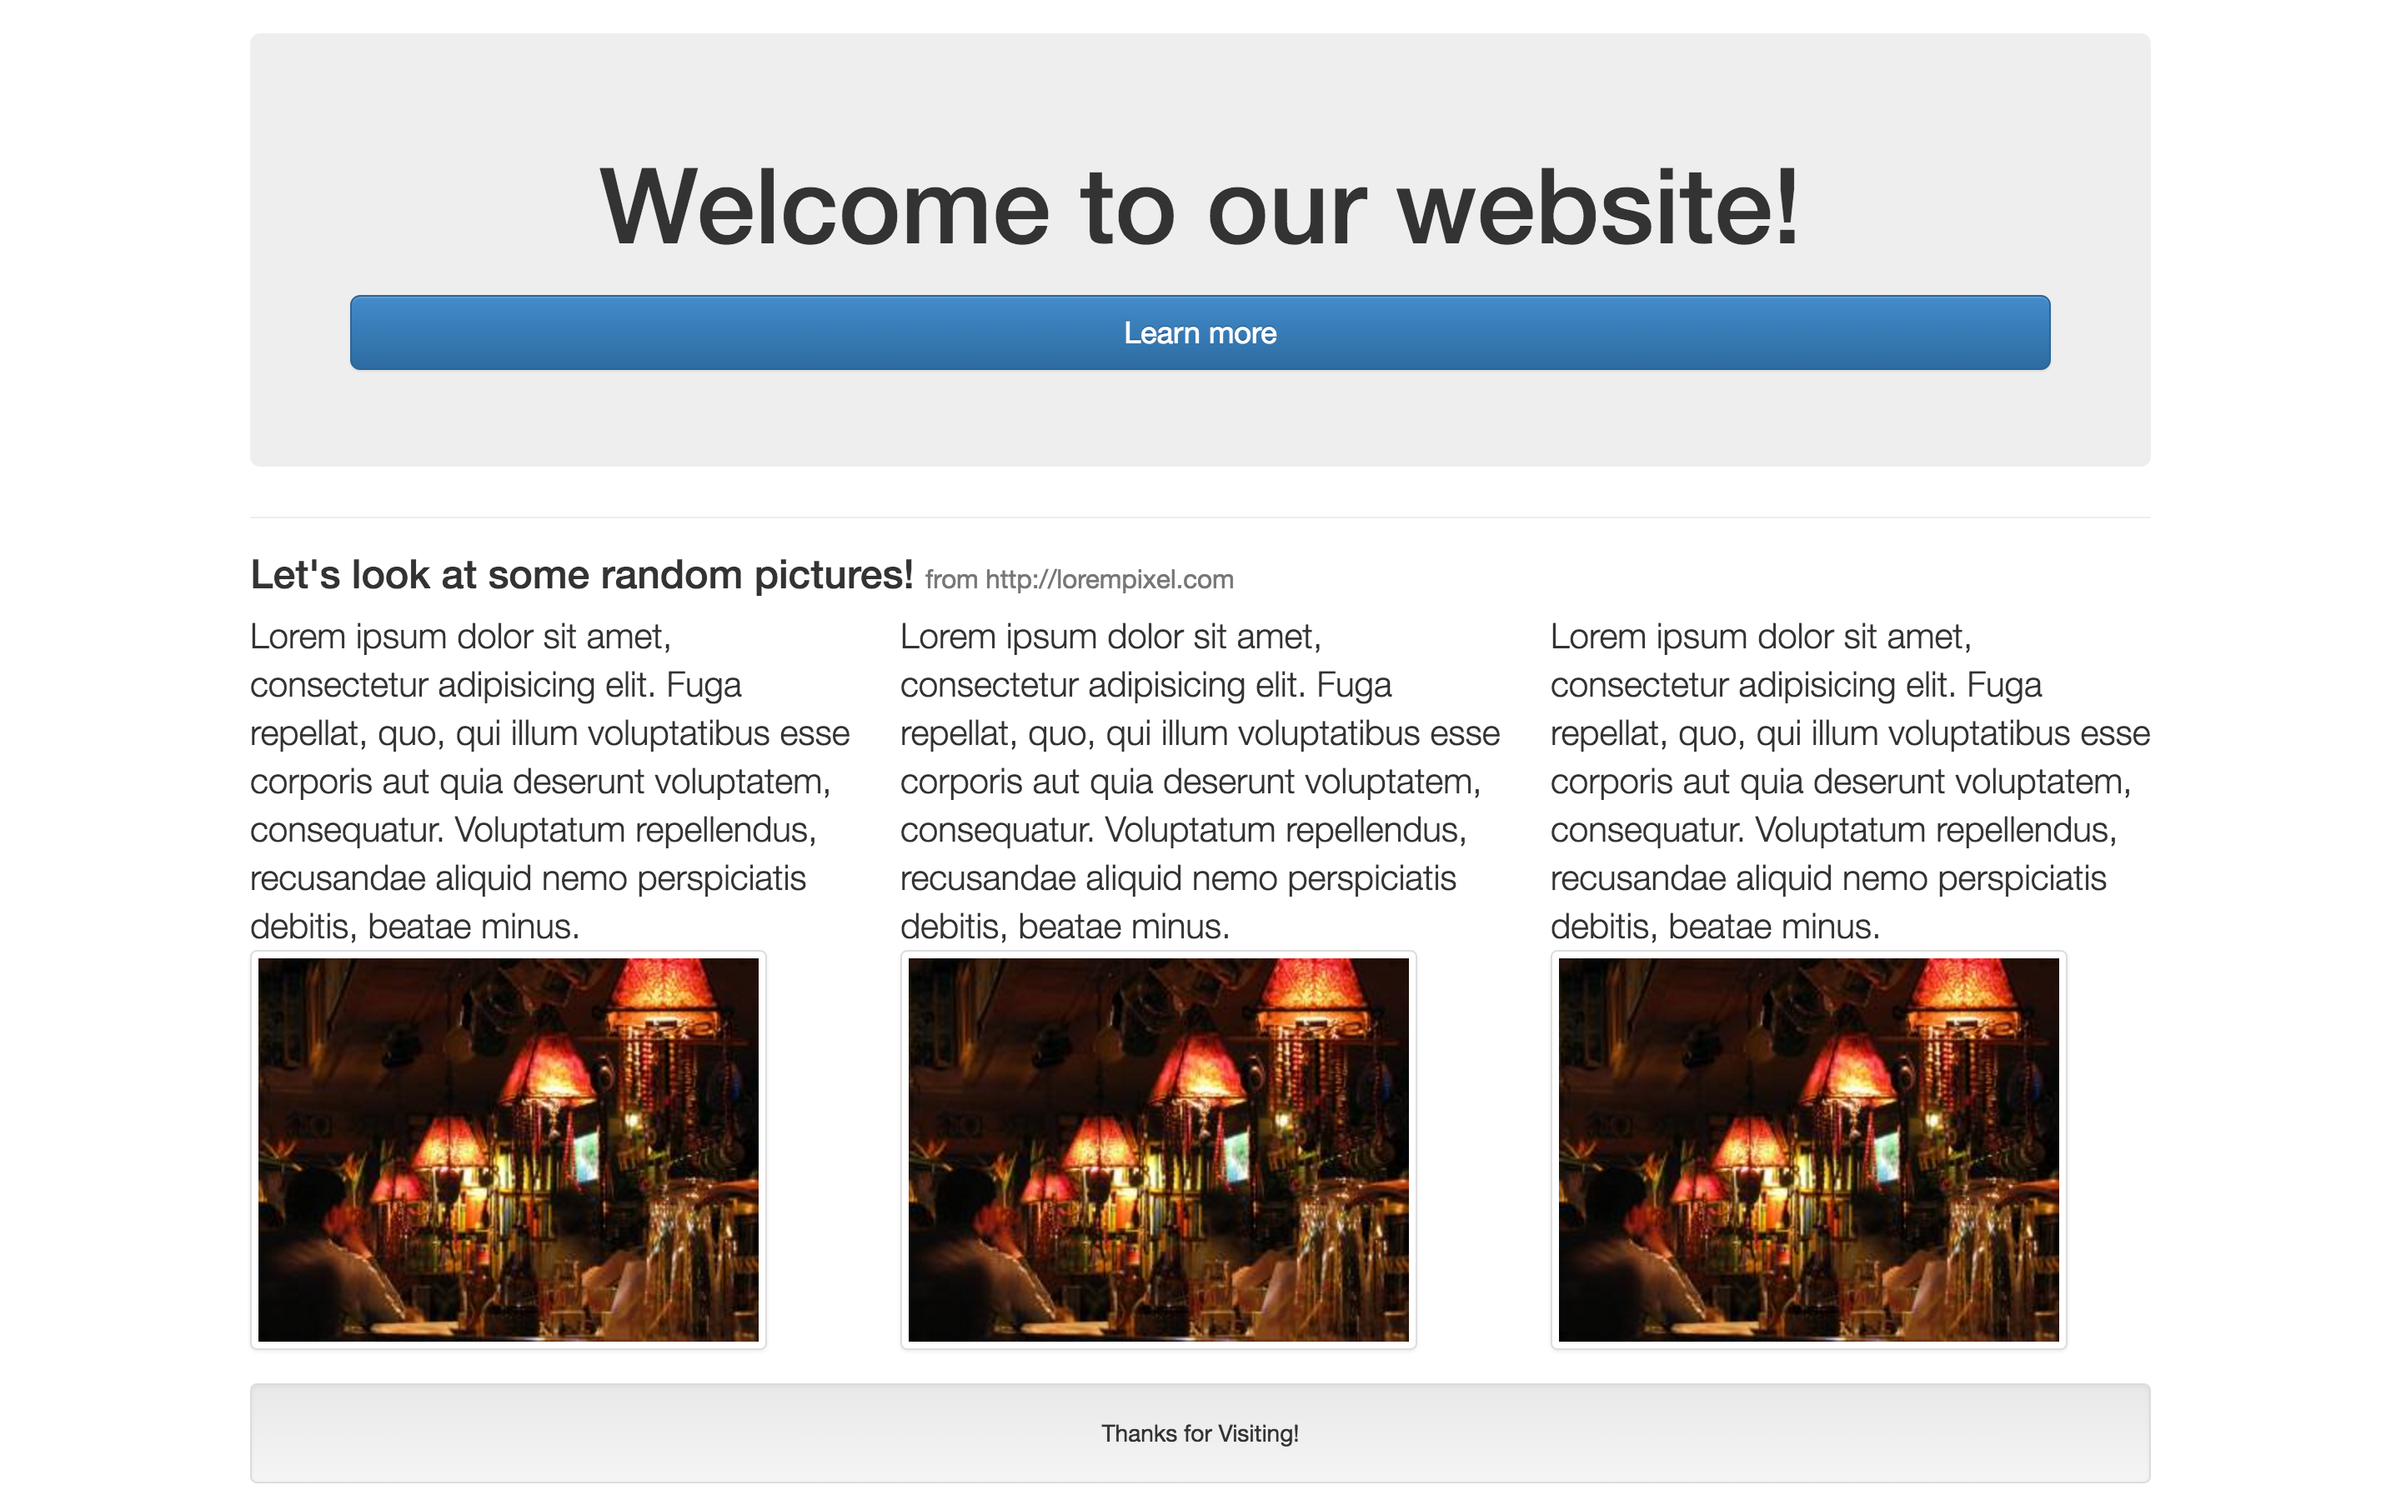
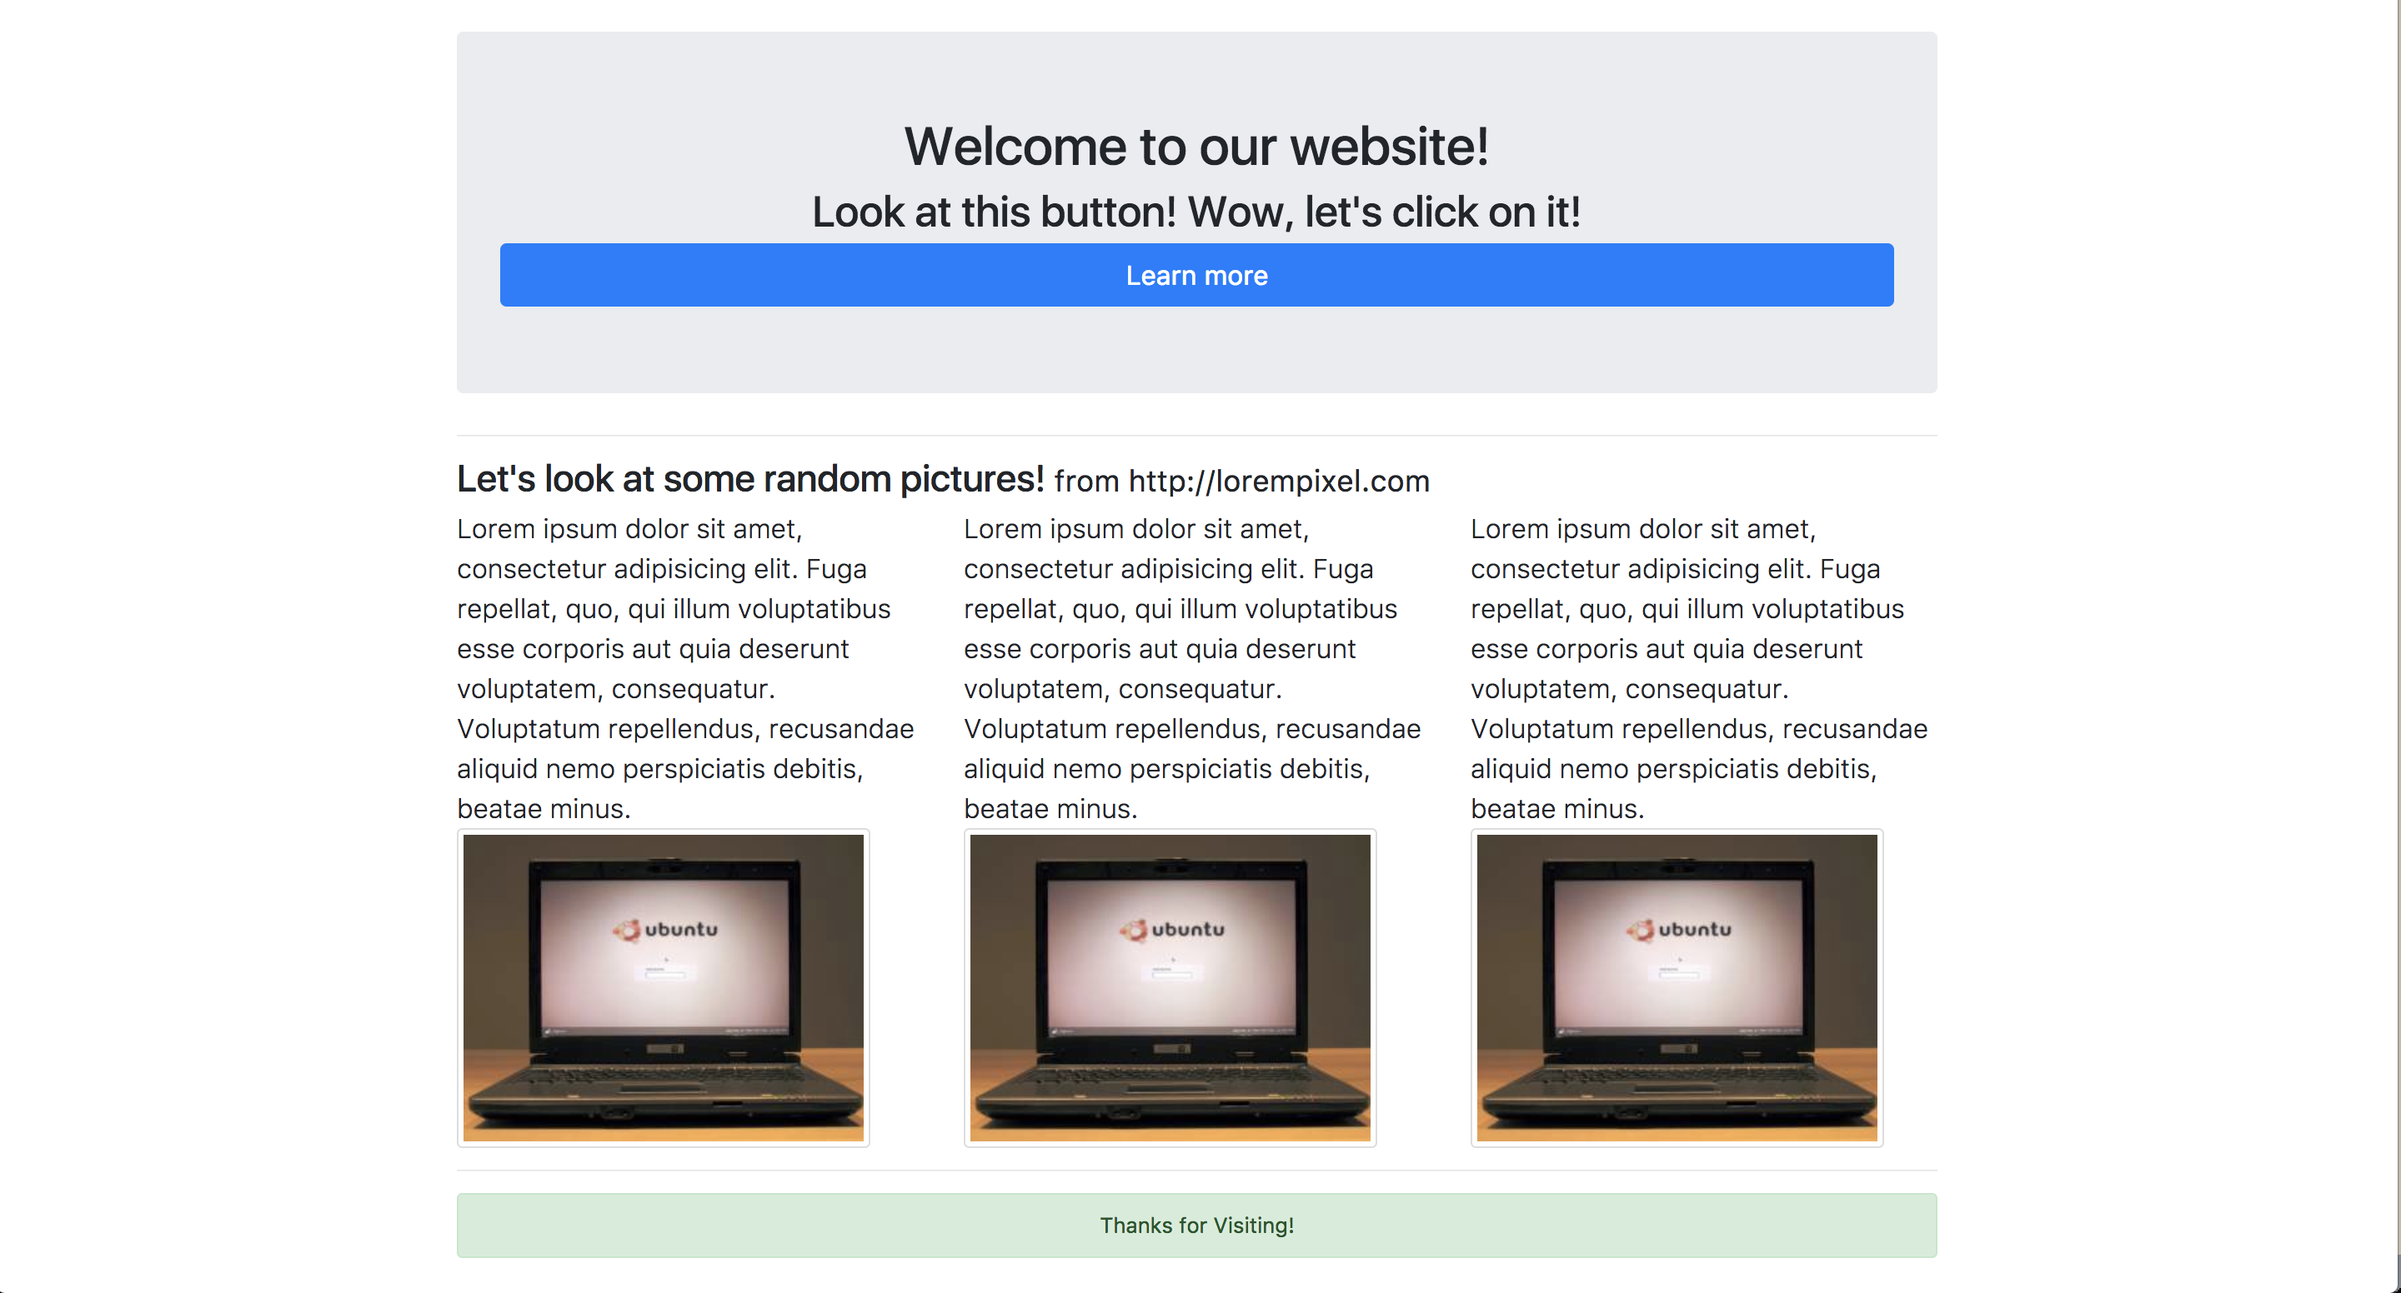
updating bootstrap exercise to v4

Changed region(s): [[0.0938, 0.3402, 0.9062, 0.9278], [0.125, 0.0928, 0.875, 0.2474], [0.1875, 0.9278, 0.8125, 0.9897]]

diff --git a/bootstrap_exercise/mock2.html b/bootstrap_exercise/mock2.html
@@ -4,94 +4,90 @@
   <meta charset="UTF-8">
   <title>Mock 2</title>
   <!-- Latest compiled and minified CSS -->
-  <link rel="stylesheet" href="https://maxcdn.bootstrapcdn.com/bootstrap/3.2.0/css/bootstrap.min.css">
-
+  <link rel="stylesheet" href="https://maxcdn.bootstrapcdn.com/bootstrap/4.0.0-beta/css/bootstrap.min.css" integrity="sha384-/Y6pD6FV/Vv2HJnA6t+vslU6fwYXjCFtcEpHbNJ0lyAFsXTsjBbfaDjzALeQsN6M" crossorigin="anonymous">
+  <link href="https://maxcdn.bootstrapcdn.com/font-awesome/4.7.0/css/font-awesome.min.css" rel="stylesheet" integrity="sha384-wvfXpqpZZVQGK6TAh5PVlGOfQNHSoD2xbE+QkPxCAFlNEevoEH3Sl0sibVcOQVnN" crossorigin="anonymous">
 </head>
 <body>
-  <nav class="navbar navbar-default navbar-inverse">
-    <div class="container-fluid">
-      <!-- Brand and toggle get grouped for better mobile display -->
-      <div class="navbar-header">
-        <button type="button" class="navbar-toggle collapsed" data-toggle="collapse" data-target="#bs-example-navbar-collapse-1" aria-expanded="false">
-          <span class="sr-only">Toggle navigation</span>
-          <span class="icon-bar"></span>
-          <span class="icon-bar"></span>
-          <span class="icon-bar"></span>
-        </button>
-      </div>
-
-      <!-- Collect the nav links, forms, and other content for toggling -->
-      <div class="collapse navbar-collapse" id="bs-example-navbar-collapse-1">
-        <ul class="nav navbar-nav">
-          <li class="active"><a href="#">Home <span class="sr-only">(current)</span></a></li>
-          <li><a href="#">Contact</a></li>
-          <li><a href="#">About Us</a></li>
-          <li role="presentation"><a href="#">Messages <span class="badge">12</span></a></li>
-        </ul>
-      <ul class="navbar navbar-nav navbar-right">
-        <a class="navbar-brand" href="#">LOGO</a>
+  <nav class="navbar navbar-dark bg-dark navbar-expand-lg">
+    <a class="navbar-brand" href="#">LOGO</a>
+    <button class="navbar-toggler" type="button" data-toggle="collapse" data-target="#content">
+      <span class="navbar-toggler-icon"></span>
+    </button>
+    <div class="collapse navbar-collapse" id="content">
+      <ul class="navbar-nav ml-auto">
+        <li class="nav-item active">
+          <a class="nav-link" href="#">Home <span class="sr-only">(current)</span></a>
+        </li>
+        <li class="nav-item">
+          <a class="nav-link" href="#">Contact</a>
+        </li>
+        <li class="nav-item">
+          <a class="nav-link" href="#">About Us</a>
+        </li>
+        <li class="nav-item">
+          <a class="nav-link" href="#">Messages <span class="badge badge-success">12</span></a>
+        </li>
       </ul>
-      </div><!-- /.navbar-collapse -->
-    </div><!-- /.container-fluid -->
+    </div>
   </nav>
 <div class="container-fluid">
-  <h1>Dashboard:</h1>
-      <table class="table table-striped table-hover">
-        <thead>
-          <tr>
-            <th>Name</th>
-            <th>Team</th>
-            <th>All Star</th>
-            <th>Remove</th>
-          </tr>
-        </thead>
-        <tbody>
-          <tr>
-            <td>Steph</td>
-            <td>Warriors</td>
-            <td>Yes</td>
-            <td><a href="" class="btn btn-xs btn-danger"><span class="glyphicon glyphicon-remove"></span></a></td>
-          </tr>
-          <tr>
-            <td>Lebron</td>
-            <td>Cavaliers</td>
-            <td>Yes</td>
-            <td><a href="" class="btn btn-xs btn-danger"><span class="glyphicon glyphicon-remove"></span></a></td>
-          </tr>
-          <tr>
-            <td>Dwayne</td>
-            <td>Heat</td>
-            <td>Yes</td>
-            <td><a href="" class="btn btn-xs btn-danger"><span class="glyphicon glyphicon-remove"></span></a></td>
-          </tr>
-          <tr>
-            <td>Kobe</td>
-            <td>Lakers</td>
-            <td>Yes <span class="label label-warning">Last</span></td>
-            <td><a href="" class="btn btn-xs btn-danger"><span class="glyphicon glyphicon-remove"></span></a></td>
-          </tr>
-          <tr>
-            <td>Isaiah</td>
-            <td>Celtics</td>
-            <td>Yes <span class="label label-success">First</span></td>
-            <td><a href="" class="btn btn-xs btn-danger"><span class="glyphicon glyphicon-remove"></span></a></td>
-          </tr>
-        </tbody>
-      </table>
-      <hr>
-      <h2>Todos:</h2>
-      <div class="list-group">
-        <a href="#" class="list-group-item list-group-item-success">Feel good about Bootstrap</a>
-        <a href="#" class="list-group-item list-group-item-info">
-          Feel informed about Bootstrap
-        </a>
-        <a href="#" class="list-group-item list-group-item-warning">
-          Feel warned about Bootstrap
-        </a>
-        <a href="#" class="list-group-item list-group-item-warning">Maybe I should read the docs...</a>
-        <a href="#" class="list-group-item list-group-item-danger">Danger zone</a>
-        <a href="#" class="list-group-item list-group-item-danger">I really should read the docs...</a>
-      </div>
+  <h1 class="my-4">Dashboard:</h1>
+  <table class="table table-striped table-hover">
+    <thead>
+      <tr>
+        <th>Name</th>
+        <th>Team</th>
+        <th>All Star</th>
+        <th>Remove</th>
+      </tr>
+    </thead>
+    <tbody>
+      <tr>
+        <td>Steph</td>
+        <td>Warriors</td>
+        <td>Yes</td>
+        <td><a href="" class="btn btn-sm btn-danger"><i class="fa fa-times"></i></a></td>
+      </tr>
+      <tr>
+        <td>Lebron</td>
+        <td>Cavaliers</td>
+        <td>Yes</td>
+        <td><a href="" class="btn btn-sm btn-danger"><i class="fa fa-times"></i></a></td>
+      </tr>
+      <tr>
+        <td>Dwayne</td>
+        <td>Heat</td>
+        <td>Yes</td>
+        <td><a href="" class="btn btn-sm btn-danger"><i class="fa fa-times"></i></a></td>
+      </tr>
+      <tr>
+        <td>Kobe</td>
+        <td>Lakers</td>
+        <td>Yes <span class="badge badge-warning">Last</span></td>
+        <td><a href="" class="btn btn-sm btn-danger"><i class="fa fa-times"></i></a></td>
+      </tr>
+      <tr>
+        <td>Isaiah</td>
+        <td>Celtics</td>
+        <td>Yes <span class="badge badge-success">First</span></td>
+        <td><a href="" class="btn btn-sm btn-danger"><i class="fa fa-times"></i></a></td>
+      </tr>
+    </tbody>
+  </table>
+  <hr>
+  <h2 class="my-3">Todos:</h2>
+  <div class="list-group my-2">
+    <a href="#" class="list-group-item list-group-item-success">Feel good about Bootstrap</a>
+    <a href="#" class="list-group-item list-group-item-info">
+      Feel informed about Bootstrap
+    </a>
+    <a href="#" class="list-group-item list-group-item-warning">
+      Feel warned about Bootstrap
+    </a>
+    <a href="#" class="list-group-item list-group-item-warning">Maybe I should read the docs...</a>
+    <a href="#" class="list-group-item list-group-item-danger">Danger zone</a>
+    <a href="#" class="list-group-item list-group-item-danger">I really should read the docs...</a>
+  </div>
 </body>
 </html>
 

diff --git a/bootstrap_exercise/mock1.html b/bootstrap_exercise/mock1.html
@@ -3,23 +3,17 @@
 <head>
   <meta charset="UTF-8">
   <title>Mock 1</title>
-  <!-- Latest compiled and minified CSS -->
-  <link rel="stylesheet" href="https://maxcdn.bootstrapcdn.com/bootstrap/3.2.0/css/bootstrap.min.css">
-
-  <!-- Optional theme -->
-  <link rel="stylesheet" href="https://maxcdn.bootstrapcdn.com/bootstrap/3.2.0/css/bootstrap-theme.min.css">
-
-  <!-- Latest compiled and minified JavaScript -->
-  <script src="https://maxcdn.bootstrapcdn.com/bootstrap/3.2.0/js/bootstrap.min.js"></script>
+  <link rel="stylesheet" href="https://maxcdn.bootstrapcdn.com/bootstrap/4.0.0-beta/css/bootstrap.min.css" integrity="sha384-/Y6pD6FV/Vv2HJnA6t+vslU6fwYXjCFtcEpHbNJ0lyAFsXTsjBbfaDjzALeQsN6M" crossorigin="anonymous">
 </head>
 <body>
   <br>
   <div class="container">
-    <div class="jumbotron">
-      <h1 class="text-center">Welcome to our website!</h1>
+    <div class="jumbotron text-center">
+      <h1>Welcome to our website!</h1>
       <h2>
-        <a href="#" class="btn btn-lg btn-block btn-primary">Learn more</a>
+        Look at this button! Wow, let's click on it!
       </h2>
+      <a href="#" class="btn btn-lg btn-block btn-primary">Learn more</a>
     </div>
     <hr>
     <h3>Let's look at some random pictures! <small> from http://lorempixel.com</small> </h3>
@@ -34,7 +28,8 @@
       <img class="img-thumbnail img-responsive" src="http://lorempixel.com/300/230">
       </div>
     </div>
-    <div class="text-center well">Thanks for Visiting!</div>
+    <hr>
+    <div class="text-center alert alert-success">Thanks for Visiting!</div>
   </div>
 </body>
 </html>
